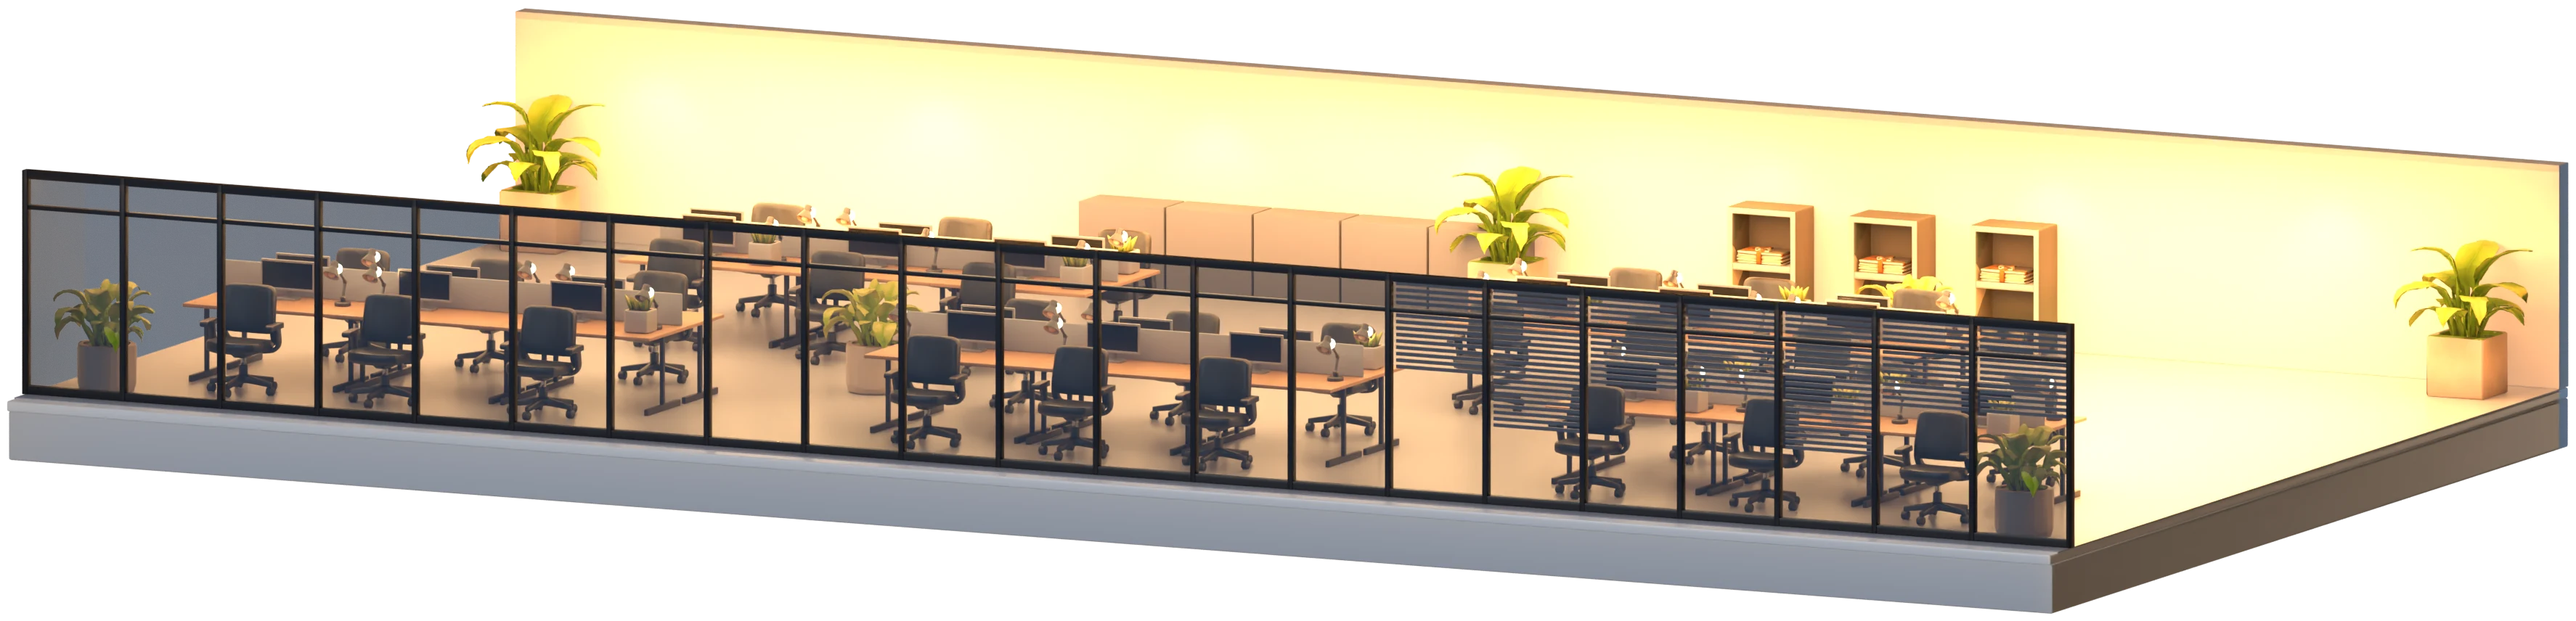
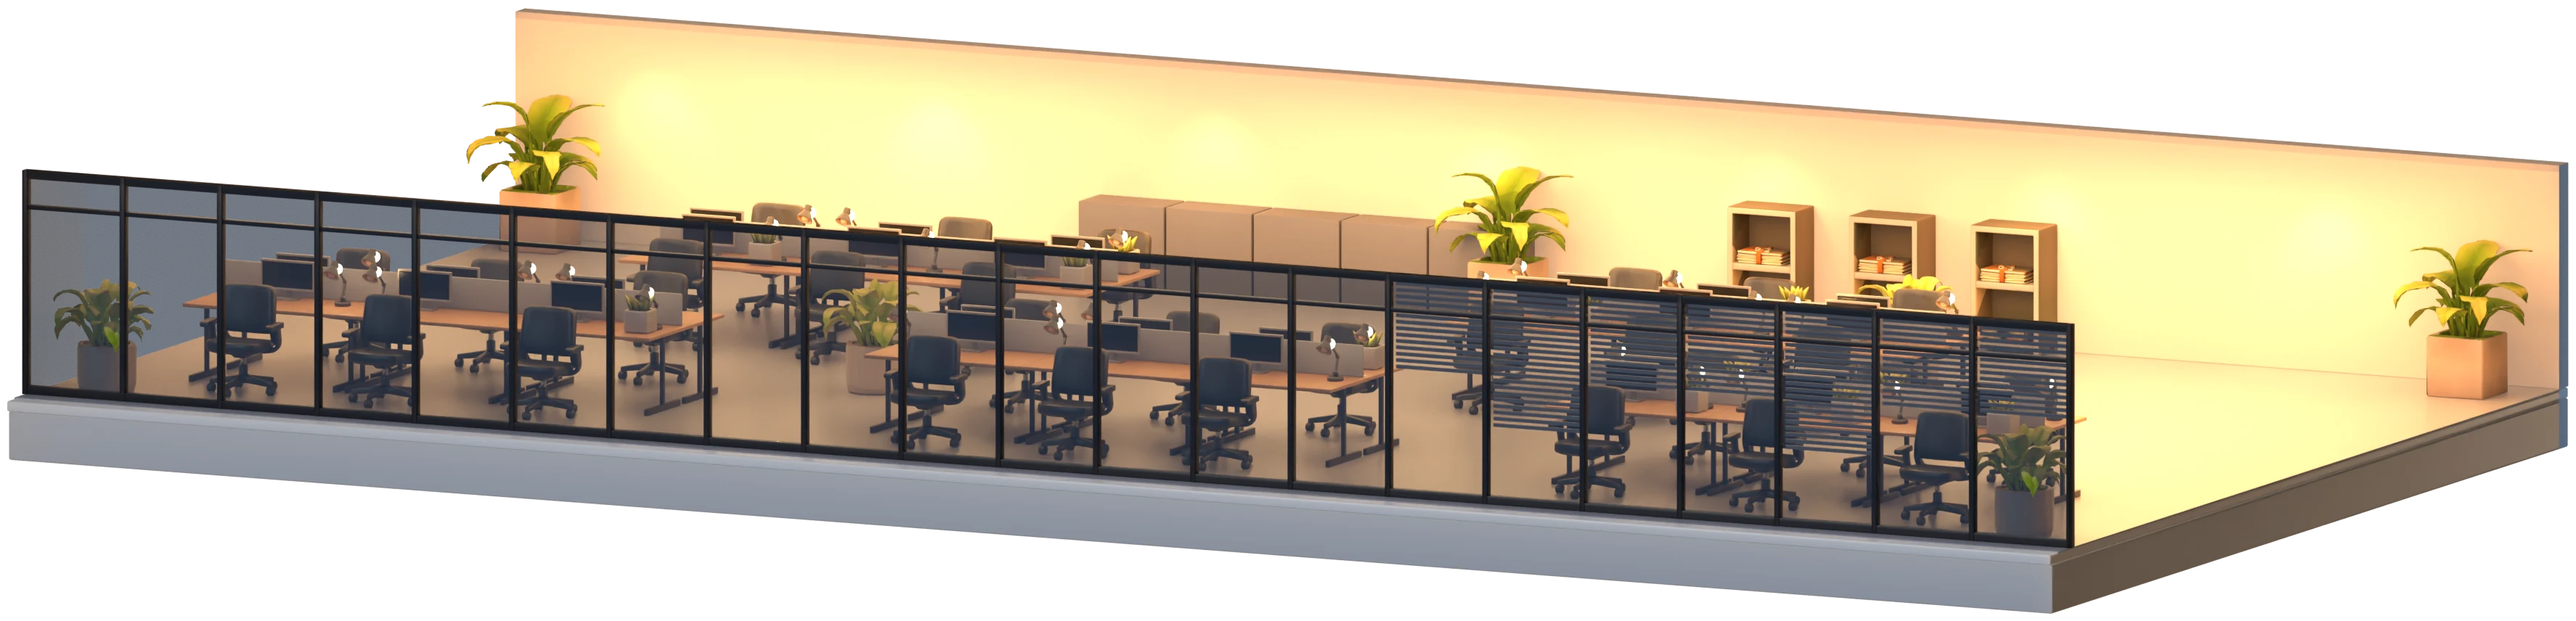
style(art): a working glass floor glows quieter than a working open floor
The deck's rule (busy never looks important) measured on the rendered pieces: glass-lit 97 against open-lit 110 in the
test's band, still clearly warmer than glass-unlit.

diff --git a/art/scripts/building_pieces.py b/art/scripts/building_pieces.py
@@ -43,7 +43,8 @@ SKY, SUN, EXPOSURE = 0.85, 6.0, -1.1   # the sun well over a blue sky: l0's blue
 # fronts pale, as l0's are
 SUN_FROM = Vector((-1.0, 0.3, 0.45))
 FRONT_FILL, FRONT_FROM = 2.0, Vector((-0.3, -1.0, 0.5))
-PLINTH_LIFT = 0.5                # the plinth's exposure over the rest's: it is rendered without the front fill
+GLASS_GLOW = 3000                 # W per warm panel behind a working glass floor's panes
+PLINTH_LIFT = 0.5              # the plinth's exposure over the rest's: it is rendered without the front fill
 GLASS_SETBACK = 0.45               # glazing stands behind the slab edge, which reads as a ledge (l0)
 W, D = 31.5, 16.0                  # a floor's width along the front and depth: the fit's 31.6 x 15.9 m
 H = F2F - SLAB                     # a storey's clear height
@@ -500,10 +501,12 @@ def floor(kind: str, lit: bool, top: bool) -> dict:
         to_let()
     if lit:
         wall_wash()
-        A.light('amber', 'AREA', (W / 2, D / 2, H - 0.1), 3200, PAL['warm'], shape='RECTANGLE', size=W, size_y=D)
+        # (behind glass a working floor glows, but stays quieter than any working open floor: busy never looks important;
+        # tests/test_building_browser.py measures it)
+        A.light('amber', 'AREA', (W / 2, D / 2, H - 0.1), 2200 if kind == 'glass' else 3200, PAL['warm'], shape='RECTANGLE', size=W, size_y=D)
         if kind == 'glass':
             for cx in (5.5, 15.75, 26.0):
-                A.light('glow', 'AREA', (cx, D / 2, H - 0.2), 6000, PAL['warm'], shape='RECTANGLE', size=9.0, size_y=D - 2)
+                A.light('glow', 'AREA', (cx, D / 2, H - 0.2), GLASS_GLOW, PAL['warm'], shape='RECTANGLE', size=9.0, size_y=D - 2)
     ceiling_fill(H, {'open': 250, 'lab': 250, 'glass': 60, 'free': 220}[kind] * (0.6 if lit else 1.0))
     context(top)
     slots = {'shutter_handle': Vector((W - 1.6, -0.2, -SLAB / 2)), 'focus_hit': Vector((W / 2, D / 2, 1.5))}
